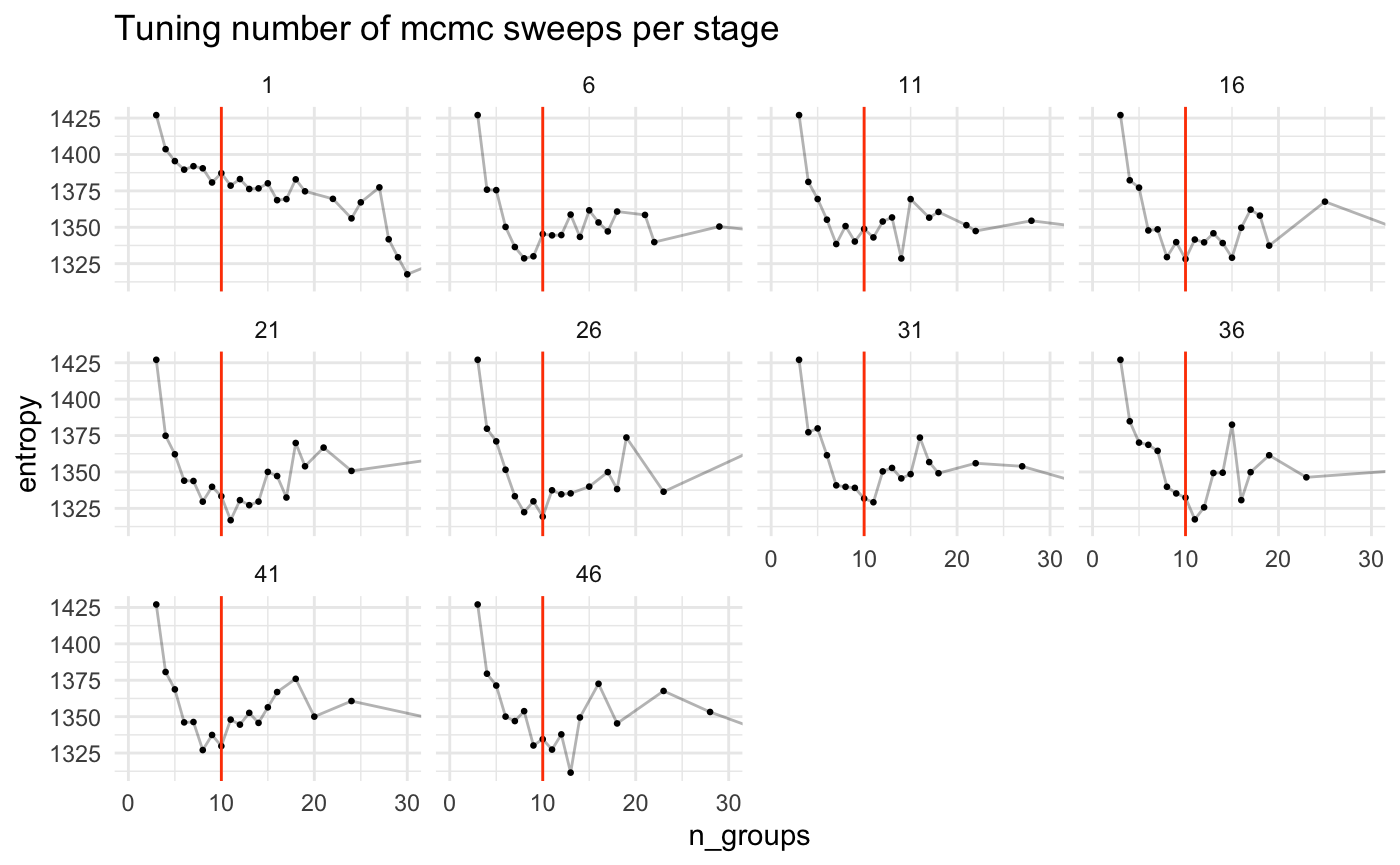
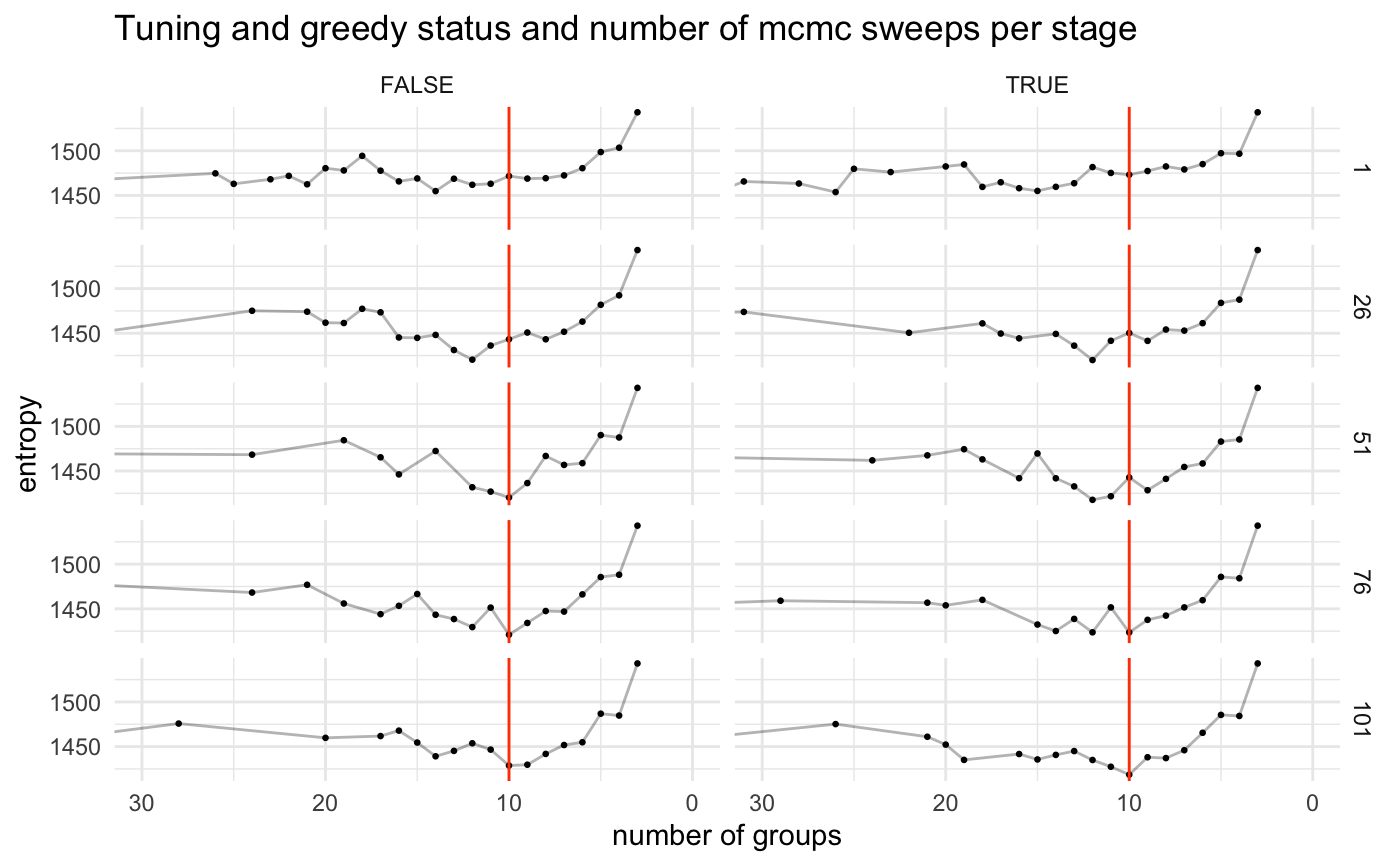
Removed solo mcmc sweep tuning plot and increased high end of mcmc sweep range checks.

diff --git a/docs/articles/agglomerative_merging.html b/docs/articles/agglomerative_merging.html
@@ -159,13 +159,13 @@
 <a class="sourceLine" id="cb5-10" data-line-number="10">}</a>
 <a class="sourceLine" id="cb5-11" data-line-number="11"></a>
 <a class="sourceLine" id="cb5-12" data-line-number="12"><span class="kw">extract_n_groups</span>(merge_results) <span class="op">%&gt;%</span><span class="st"> </span><span class="kw"><a href="https://rdrr.io/r/utils/head.html">head</a></span>()</a>
-<a class="sourceLine" id="cb5-13" data-line-number="13"><span class="co">#&gt; [1] 99 44 35 30 29 28</span></a></code></pre></div>
+<a class="sourceLine" id="cb5-13" data-line-number="13"><span class="co">#&gt; [1] 99 51 40 36 34 31</span></a></code></pre></div>
 <p>Next we can look at how that number of groups corresponds to the entropy of the model.</p>
 <div class="sourceCode" id="cb6"><pre class="sourceCode r"><code class="sourceCode r"><a class="sourceLine" id="cb6-1" data-line-number="1">extract_entropy &lt;-<span class="st"> </span><span class="cf">function</span>(merge_results){</a>
 <a class="sourceLine" id="cb6-2" data-line-number="2">  merge_results <span class="op">%&gt;%</span><span class="st"> </span>purrr<span class="op">::</span><span class="kw"><a href="https://purrr.tidyverse.org/reference/map.html">map_dbl</a></span>(<span class="st">'entropy'</span>)</a>
 <a class="sourceLine" id="cb6-3" data-line-number="3">}</a>
 <a class="sourceLine" id="cb6-4" data-line-number="4"><span class="kw">extract_entropy</span>(merge_results) <span class="op">%&gt;%</span><span class="st"> </span><span class="kw"><a href="https://rdrr.io/r/utils/head.html">head</a></span>()</a>
-<a class="sourceLine" id="cb6-5" data-line-number="5"><span class="co">#&gt; [1] 1240.473 1286.266 1330.581 1317.687 1329.398 1341.747</span></a></code></pre></div>
+<a class="sourceLine" id="cb6-5" data-line-number="5"><span class="co">#&gt; [1] 1307.126 1392.681 1408.128 1428.730 1441.349 1465.652</span></a></code></pre></div>
 <p>We should almost always see the entropy decrease as we remove groups but if there is signal in the model and the algorithm found it, we should see a relativel “lack of decrease” around the true structure value. We know the true number of groups in this data is 6 so we can reference that here…</p>
 <div class="sourceCode" id="cb7"><pre class="sourceCode r"><code class="sourceCode r"><a class="sourceLine" id="cb7-1" data-line-number="1">results_to_df &lt;-<span class="st"> </span><span class="cf">function</span>(merge_results){</a>
 <a class="sourceLine" id="cb7-2" data-line-number="2">  <span class="kw">tibble</span>(</a>
@@ -192,8 +192,10 @@
 <a class="sourceLine" id="cb7-23" data-line-number="23">      <span class="dt">xlim =</span> <span class="kw"><a href="https://rdrr.io/r/base/c.html">c</a></span>(<span class="dv">0</span>, group_cutoff),</a>
 <a class="sourceLine" id="cb7-24" data-line-number="24">      <span class="dt">ylim =</span> <span class="kw"><a href="https://rdrr.io/r/base/c.html">c</a></span>(min_entropy, max_entropy)</a>
 <a class="sourceLine" id="cb7-25" data-line-number="25">    ) <span class="op">+</span></a>
-<a class="sourceLine" id="cb7-26" data-line-number="26"><span class="st">    </span><span class="kw">theme_minimal</span>()</a>
-<a class="sourceLine" id="cb7-27" data-line-number="27">}</a></code></pre></div>
+<a class="sourceLine" id="cb7-26" data-line-number="26"><span class="st">    </span><span class="kw">scale_x_reverse</span>() <span class="op">+</span></a>
+<a class="sourceLine" id="cb7-27" data-line-number="27"><span class="st">    </span><span class="kw">theme_minimal</span>() <span class="op">+</span></a>
+<a class="sourceLine" id="cb7-28" data-line-number="28"><span class="st">    </span><span class="kw">labs</span>(<span class="dt">x =</span> <span class="st">"number of groups"</span>)</a>
+<a class="sourceLine" id="cb7-29" data-line-number="29">}</a></code></pre></div>
 <div class="sourceCode" id="cb8"><pre class="sourceCode r"><code class="sourceCode r"><a class="sourceLine" id="cb8-1" data-line-number="1">merge_results <span class="op">%&gt;%</span><span class="st"> </span><span class="kw">results_to_df</span>() <span class="op">%&gt;%</span><span class="st"> </span><span class="kw">plot_merge_results</span>()</a></code></pre></div>
 <p><img src="agglomerative_merging_files/figure-html/unnamed-chunk-8-1.png" width="700"></p>
 <p>We can perform the same setup but this time not using greedy but the sampling version</p>
@@ -219,43 +221,30 @@
 <a class="sourceLine" id="cb10-12" data-line-number="12"><span class="st">  </span><span class="kw">facet_wrap</span>(<span class="op">~</span>checks) <span class="op">+</span></a>
 <a class="sourceLine" id="cb10-13" data-line-number="13"><span class="st">  </span><span class="kw">ggtitle</span>(<span class="st">"Tuning number of merge checks per node"</span>)</a></code></pre></div>
 <p><img src="agglomerative_merging_files/figure-html/unnamed-chunk-10-1.png" width="700"></p>
-<div class="sourceCode" id="cb11"><pre class="sourceCode r"><code class="sourceCode r"><a class="sourceLine" id="cb11-1" data-line-number="1">merges_over_sweeps &lt;-<span class="st"> </span>purrr<span class="op">::</span><span class="kw"><a href="https://purrr.tidyverse.org/reference/map.html">map_dfr</a></span>(</a>
-<a class="sourceLine" id="cb11-2" data-line-number="2">  <span class="kw"><a href="https://rdrr.io/r/base/seq.html">seq</a></span>(<span class="dv">1</span>, <span class="dv">50</span>, <span class="dt">by =</span> <span class="dv">5</span>),</a>
-<a class="sourceLine" id="cb11-3" data-line-number="3">  <span class="op">~</span>{</a>
-<a class="sourceLine" id="cb11-4" data-line-number="4">    new_sbm &lt;-<span class="st"> </span><span class="kw"><a href="../reference/create_sbm.html">create_sbm</a></span>(edges, nodes)</a>
-<a class="sourceLine" id="cb11-5" data-line-number="5">    merge_results &lt;-<span class="st"> </span>new_sbm<span class="op">$</span><span class="kw">collapse_groups</span>(0L, <span class="kw"><a href="https://rdrr.io/r/base/integer.html">as.integer</a></span>(.x))</a>
-<a class="sourceLine" id="cb11-6" data-line-number="6">    <span class="kw">results_to_df</span>(merge_results) <span class="op">%&gt;%</span><span class="st"> </span><span class="kw">mutate</span>(<span class="dt">mcmc_sweeps =</span> .x)</a>
-<a class="sourceLine" id="cb11-7" data-line-number="7">  })</a>
-<a class="sourceLine" id="cb11-8" data-line-number="8"></a>
-<a class="sourceLine" id="cb11-9" data-line-number="9"></a>
-<a class="sourceLine" id="cb11-10" data-line-number="10"><span class="kw">plot_merge_results</span>(merges_over_sweeps) <span class="op">+</span><span class="st"> </span></a>
-<a class="sourceLine" id="cb11-11" data-line-number="11"><span class="st">  </span><span class="kw">facet_wrap</span>(<span class="op">~</span>mcmc_sweeps) <span class="op">+</span></a>
-<a class="sourceLine" id="cb11-12" data-line-number="12"><span class="st">  </span><span class="kw">ggtitle</span>(<span class="st">"Tuning number of mcmc sweeps per stage"</span>)</a></code></pre></div>
+<div class="sourceCode" id="cb11"><pre class="sourceCode r"><code class="sourceCode r"><a class="sourceLine" id="cb11-1" data-line-number="1">merges_over_sweeps_and_greedy &lt;-<span class="st"> </span><span class="kw"><a href="https://rdrr.io/r/base/expand.grid.html">expand.grid</a></span>(</a>
+<a class="sourceLine" id="cb11-2" data-line-number="2">  <span class="dt">mcmc_sweeps =</span> <span class="kw"><a href="https://rdrr.io/r/base/seq.html">seq</a></span>(<span class="dv">1</span>, <span class="dv">101</span>, <span class="dt">by =</span> <span class="dv">25</span>),</a>
+<a class="sourceLine" id="cb11-3" data-line-number="3">  <span class="dt">greedy =</span> <span class="kw"><a href="https://rdrr.io/r/base/c.html">c</a></span>(<span class="ot">TRUE</span>, <span class="ot">FALSE</span>)</a>
+<a class="sourceLine" id="cb11-4" data-line-number="4">) <span class="op">%&gt;%</span><span class="st"> </span></a>
+<a class="sourceLine" id="cb11-5" data-line-number="5"><span class="st">  </span>{</a>
+<a class="sourceLine" id="cb11-6" data-line-number="6">    purrr<span class="op">::</span><span class="kw"><a href="https://purrr.tidyverse.org/reference/map2.html">map2_dfr</a></span>(</a>
+<a class="sourceLine" id="cb11-7" data-line-number="7">      .<span class="op">$</span>mcmc_sweeps,</a>
+<a class="sourceLine" id="cb11-8" data-line-number="8">      .<span class="op">$</span>greedy,</a>
+<a class="sourceLine" id="cb11-9" data-line-number="9">      <span class="op">~</span>{</a>
+<a class="sourceLine" id="cb11-10" data-line-number="10">        new_sbm &lt;-<span class="st"> </span><span class="kw"><a href="../reference/create_sbm.html">create_sbm</a></span>(edges, nodes)</a>
+<a class="sourceLine" id="cb11-11" data-line-number="11">        new_sbm<span class="op">$</span>GREEDY &lt;-<span class="st"> </span>.y</a>
+<a class="sourceLine" id="cb11-12" data-line-number="12">        merge_results &lt;-<span class="st"> </span>new_sbm<span class="op">$</span><span class="kw">collapse_groups</span>(0L, <span class="kw"><a href="https://rdrr.io/r/base/integer.html">as.integer</a></span>(.x))</a>
+<a class="sourceLine" id="cb11-13" data-line-number="13">        <span class="kw">results_to_df</span>(merge_results) <span class="op">%&gt;%</span><span class="st"> </span></a>
+<a class="sourceLine" id="cb11-14" data-line-number="14"><span class="st">          </span><span class="kw">mutate</span>(<span class="dt">mcmc_sweeps =</span> .x,</a>
+<a class="sourceLine" id="cb11-15" data-line-number="15">                 <span class="dt">greedy =</span> .y)</a>
+<a class="sourceLine" id="cb11-16" data-line-number="16">      }</a>
+<a class="sourceLine" id="cb11-17" data-line-number="17">    )</a>
+<a class="sourceLine" id="cb11-18" data-line-number="18">  }</a>
+<a class="sourceLine" id="cb11-19" data-line-number="19"></a>
+<a class="sourceLine" id="cb11-20" data-line-number="20"></a>
+<a class="sourceLine" id="cb11-21" data-line-number="21"><span class="kw">plot_merge_results</span>(merges_over_sweeps_and_greedy) <span class="op">+</span><span class="st"> </span></a>
+<a class="sourceLine" id="cb11-22" data-line-number="22"><span class="st">  </span><span class="kw">facet_grid</span>(mcmc_sweeps<span class="op">~</span>greedy) <span class="op">+</span></a>
+<a class="sourceLine" id="cb11-23" data-line-number="23"><span class="st">  </span><span class="kw">ggtitle</span>(<span class="st">"Tuning and greedy status and number of mcmc sweeps per stage"</span>)</a></code></pre></div>
 <p><img src="agglomerative_merging_files/figure-html/unnamed-chunk-11-1.png" width="700"></p>
-<div class="sourceCode" id="cb12"><pre class="sourceCode r"><code class="sourceCode r"><a class="sourceLine" id="cb12-1" data-line-number="1">merges_over_sweeps_and_greedy &lt;-<span class="st"> </span><span class="kw"><a href="https://rdrr.io/r/base/expand.grid.html">expand.grid</a></span>(</a>
-<a class="sourceLine" id="cb12-2" data-line-number="2">  <span class="dt">mcmc_sweeps =</span> <span class="kw"><a href="https://rdrr.io/r/base/seq.html">seq</a></span>(<span class="dv">1</span>, <span class="dv">51</span>, <span class="dt">by =</span> <span class="dv">10</span>),</a>
-<a class="sourceLine" id="cb12-3" data-line-number="3">  <span class="dt">greedy =</span> <span class="kw"><a href="https://rdrr.io/r/base/c.html">c</a></span>(<span class="ot">TRUE</span>, <span class="ot">FALSE</span>)</a>
-<a class="sourceLine" id="cb12-4" data-line-number="4">) <span class="op">%&gt;%</span><span class="st"> </span></a>
-<a class="sourceLine" id="cb12-5" data-line-number="5"><span class="st">  </span>{</a>
-<a class="sourceLine" id="cb12-6" data-line-number="6">    purrr<span class="op">::</span><span class="kw"><a href="https://purrr.tidyverse.org/reference/map2.html">map2_dfr</a></span>(</a>
-<a class="sourceLine" id="cb12-7" data-line-number="7">      .<span class="op">$</span>mcmc_sweeps,</a>
-<a class="sourceLine" id="cb12-8" data-line-number="8">      .<span class="op">$</span>greedy,</a>
-<a class="sourceLine" id="cb12-9" data-line-number="9">      <span class="op">~</span>{</a>
-<a class="sourceLine" id="cb12-10" data-line-number="10">        new_sbm &lt;-<span class="st"> </span><span class="kw"><a href="../reference/create_sbm.html">create_sbm</a></span>(edges, nodes)</a>
-<a class="sourceLine" id="cb12-11" data-line-number="11">        new_sbm<span class="op">$</span>GREEDY &lt;-<span class="st"> </span>.y</a>
-<a class="sourceLine" id="cb12-12" data-line-number="12">        merge_results &lt;-<span class="st"> </span>new_sbm<span class="op">$</span><span class="kw">collapse_groups</span>(0L, <span class="kw"><a href="https://rdrr.io/r/base/integer.html">as.integer</a></span>(.x))</a>
-<a class="sourceLine" id="cb12-13" data-line-number="13">        <span class="kw">results_to_df</span>(merge_results) <span class="op">%&gt;%</span><span class="st"> </span></a>
-<a class="sourceLine" id="cb12-14" data-line-number="14"><span class="st">          </span><span class="kw">mutate</span>(<span class="dt">mcmc_sweeps =</span> .x,</a>
-<a class="sourceLine" id="cb12-15" data-line-number="15">                 <span class="dt">greedy =</span> .y)</a>
-<a class="sourceLine" id="cb12-16" data-line-number="16">      }</a>
-<a class="sourceLine" id="cb12-17" data-line-number="17">    )</a>
-<a class="sourceLine" id="cb12-18" data-line-number="18">  }</a>
-<a class="sourceLine" id="cb12-19" data-line-number="19"></a>
-<a class="sourceLine" id="cb12-20" data-line-number="20"></a>
-<a class="sourceLine" id="cb12-21" data-line-number="21"><span class="kw">plot_merge_results</span>(merges_over_sweeps_and_greedy) <span class="op">+</span><span class="st"> </span></a>
-<a class="sourceLine" id="cb12-22" data-line-number="22"><span class="st">  </span><span class="kw">facet_grid</span>(mcmc_sweeps<span class="op">~</span>greedy) <span class="op">+</span></a>
-<a class="sourceLine" id="cb12-23" data-line-number="23"><span class="st">  </span><span class="kw">ggtitle</span>(<span class="st">"Tuning number of mcmc sweeps per stage"</span>)</a></code></pre></div>
-<p><img src="agglomerative_merging_files/figure-html/unnamed-chunk-12-1.png" width="700"></p>
   </div>
 
   <div class="col-md-3 hidden-xs hidden-sm" id="sidebar">
